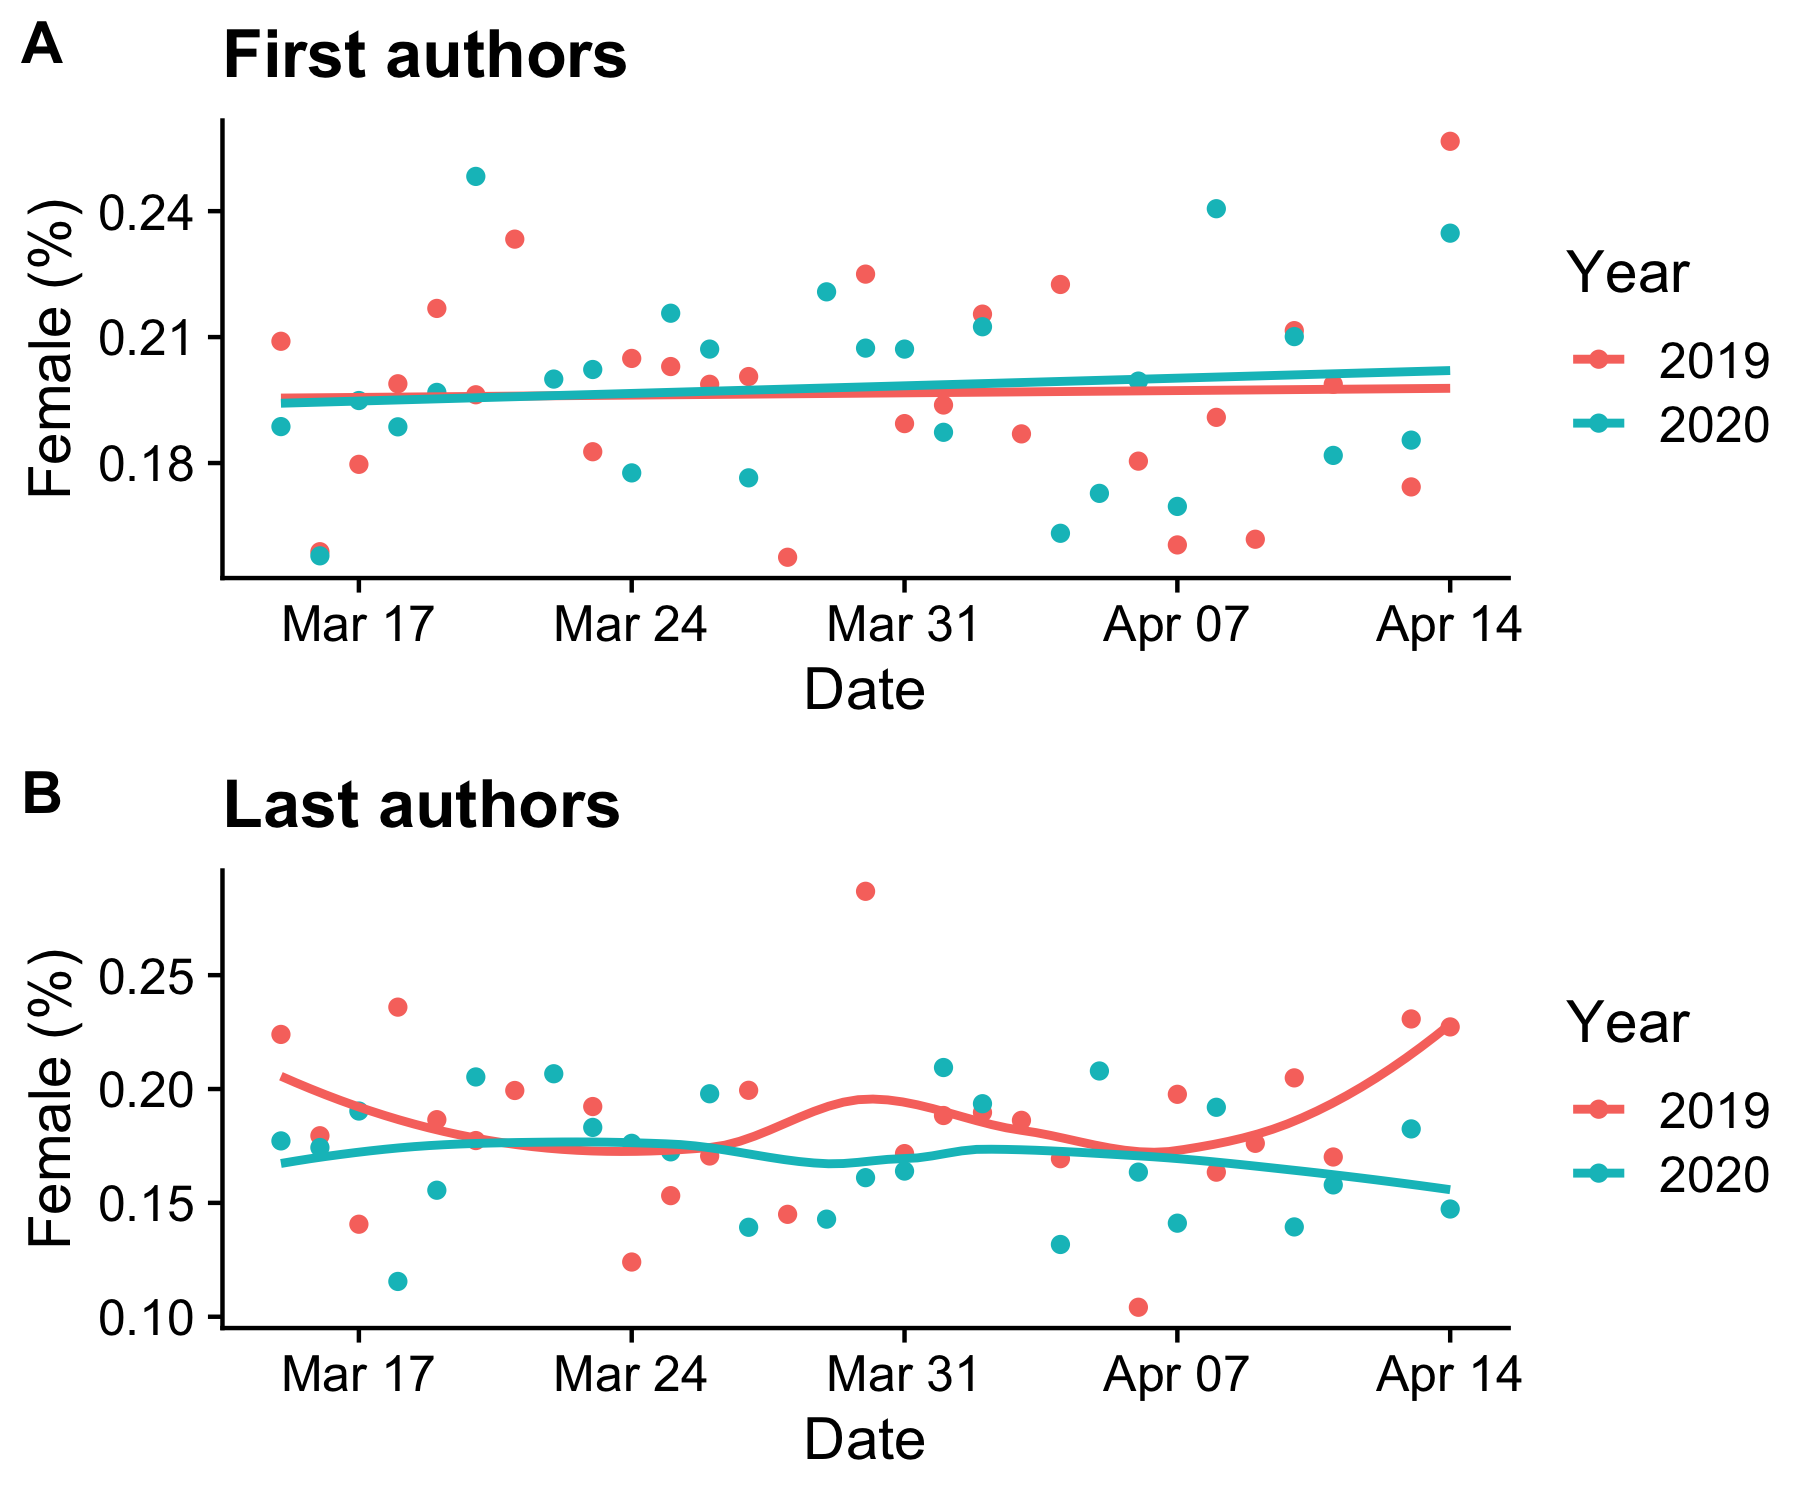
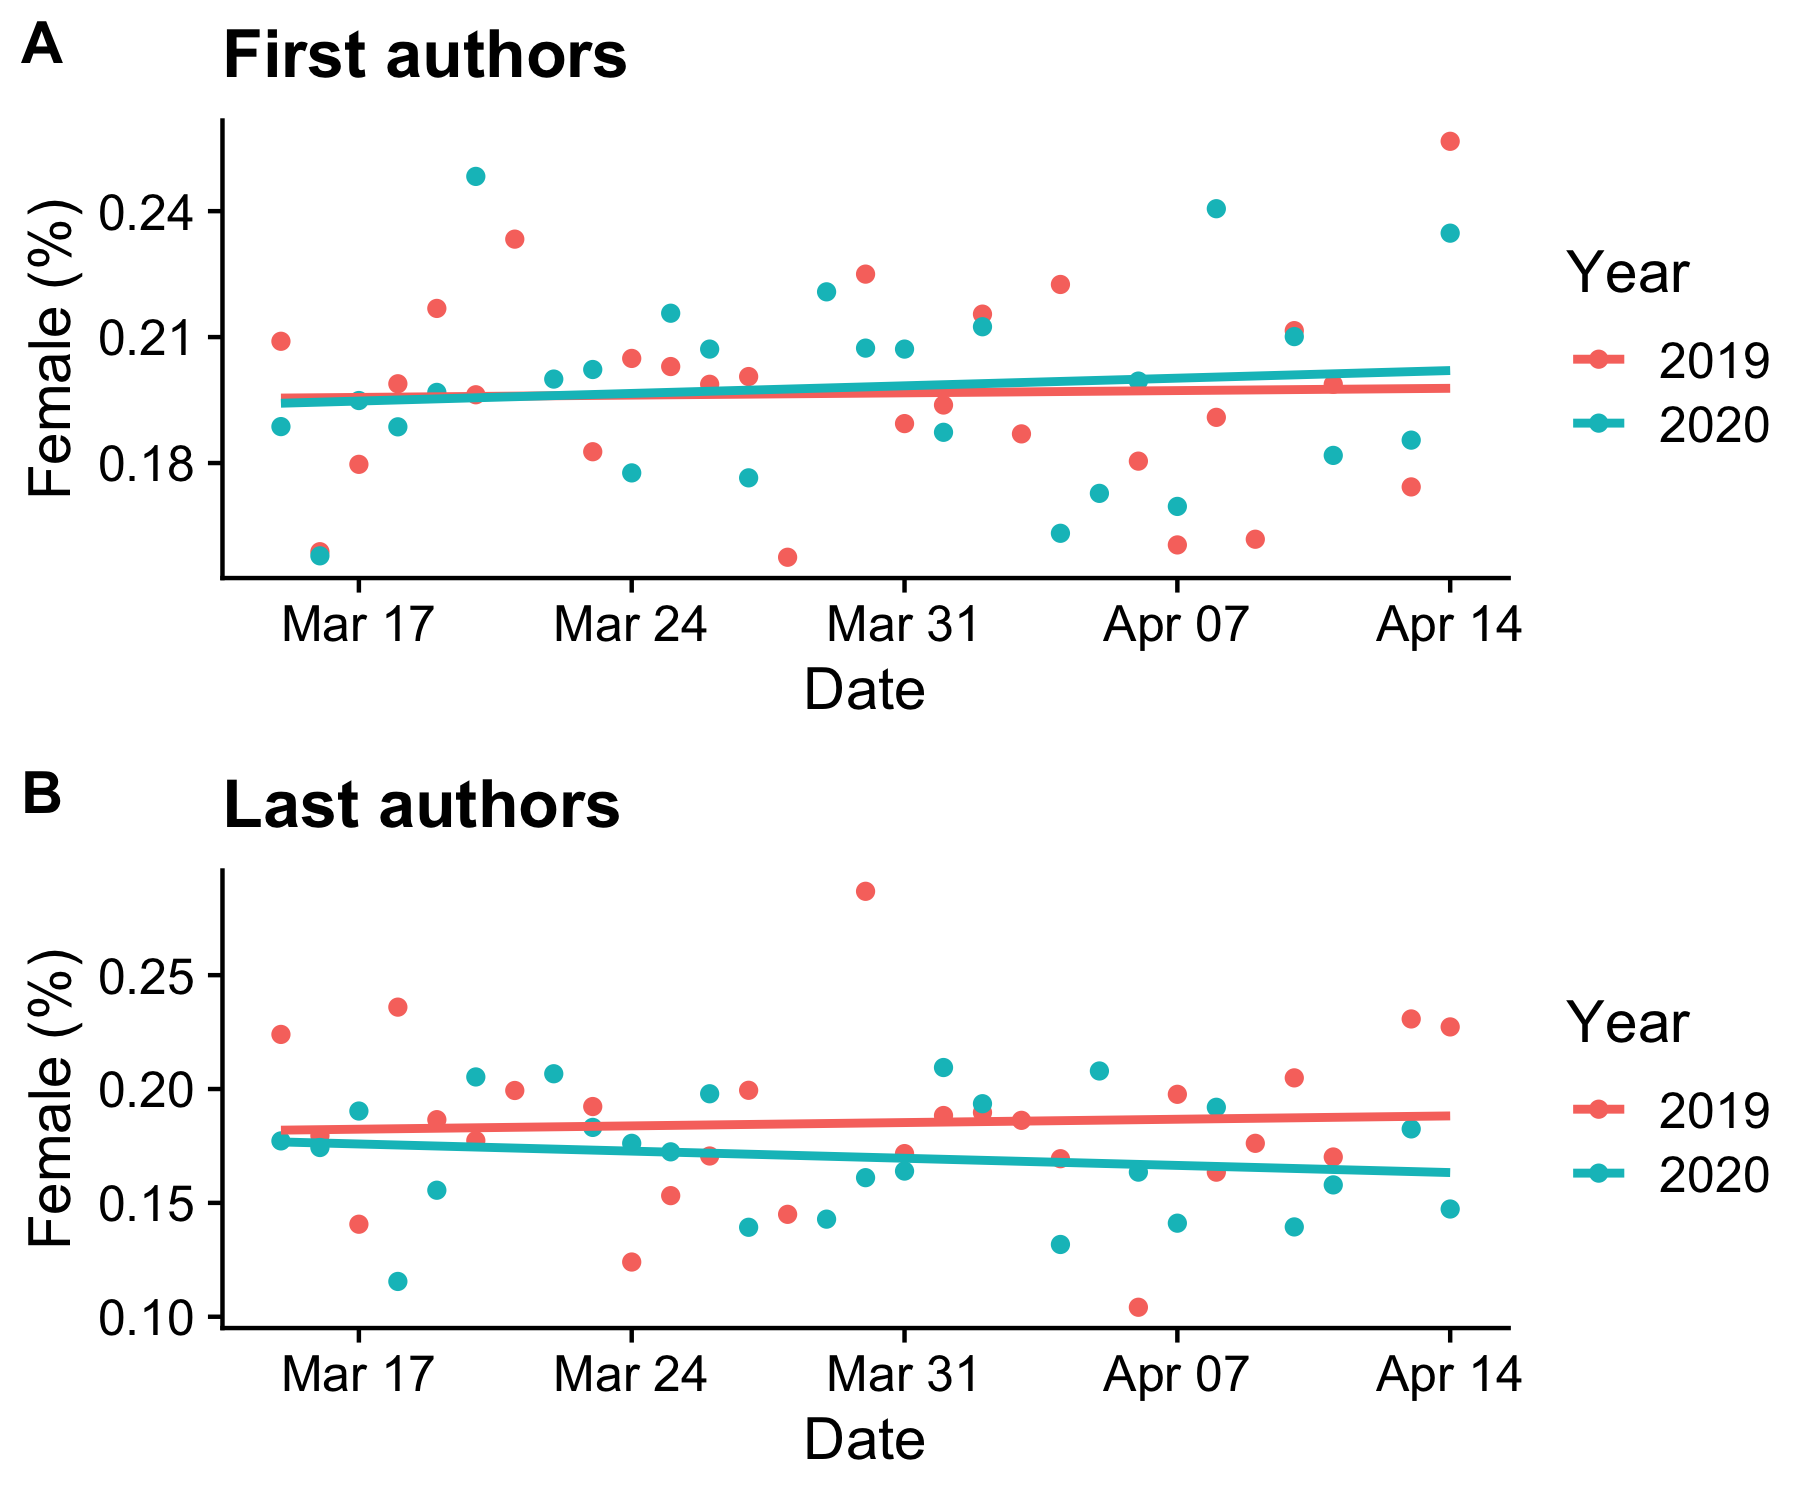
Commit from RStudio

Changed region(s): [[0.1556, 0.7053, 0.8089, 0.7973], [0.7778, 0.6747, 0.8089, 0.7053]]

diff --git a/README.md b/README.md
@@ -183,7 +183,7 @@ sum.2020$year <- "2020"
 summary <- rbind(sum.2019, sum.2020)
 summary$anydate <- anydate(summary$mm.dd)
 
-p2 <- ggplot(data=summary, aes(x=as.Date(anydate), y=female.per, color=year))+geom_point()+ylab("Female (%)")+xlab("Date")+labs(color="Year")+geom_smooth(method="loess", se=FALSE)+ggtitle("Last authors")+theme_cowplot()
+p2 <- ggplot(data=summary, aes(x=as.Date(anydate), y=female.per, color=year))+geom_point()+ylab("Female (%)")+xlab("Date")+labs(color="Year")+geom_smooth(method="lm", se=FALSE)+ggtitle("Last authors")+theme_cowplot()
 p2
 ```
 
